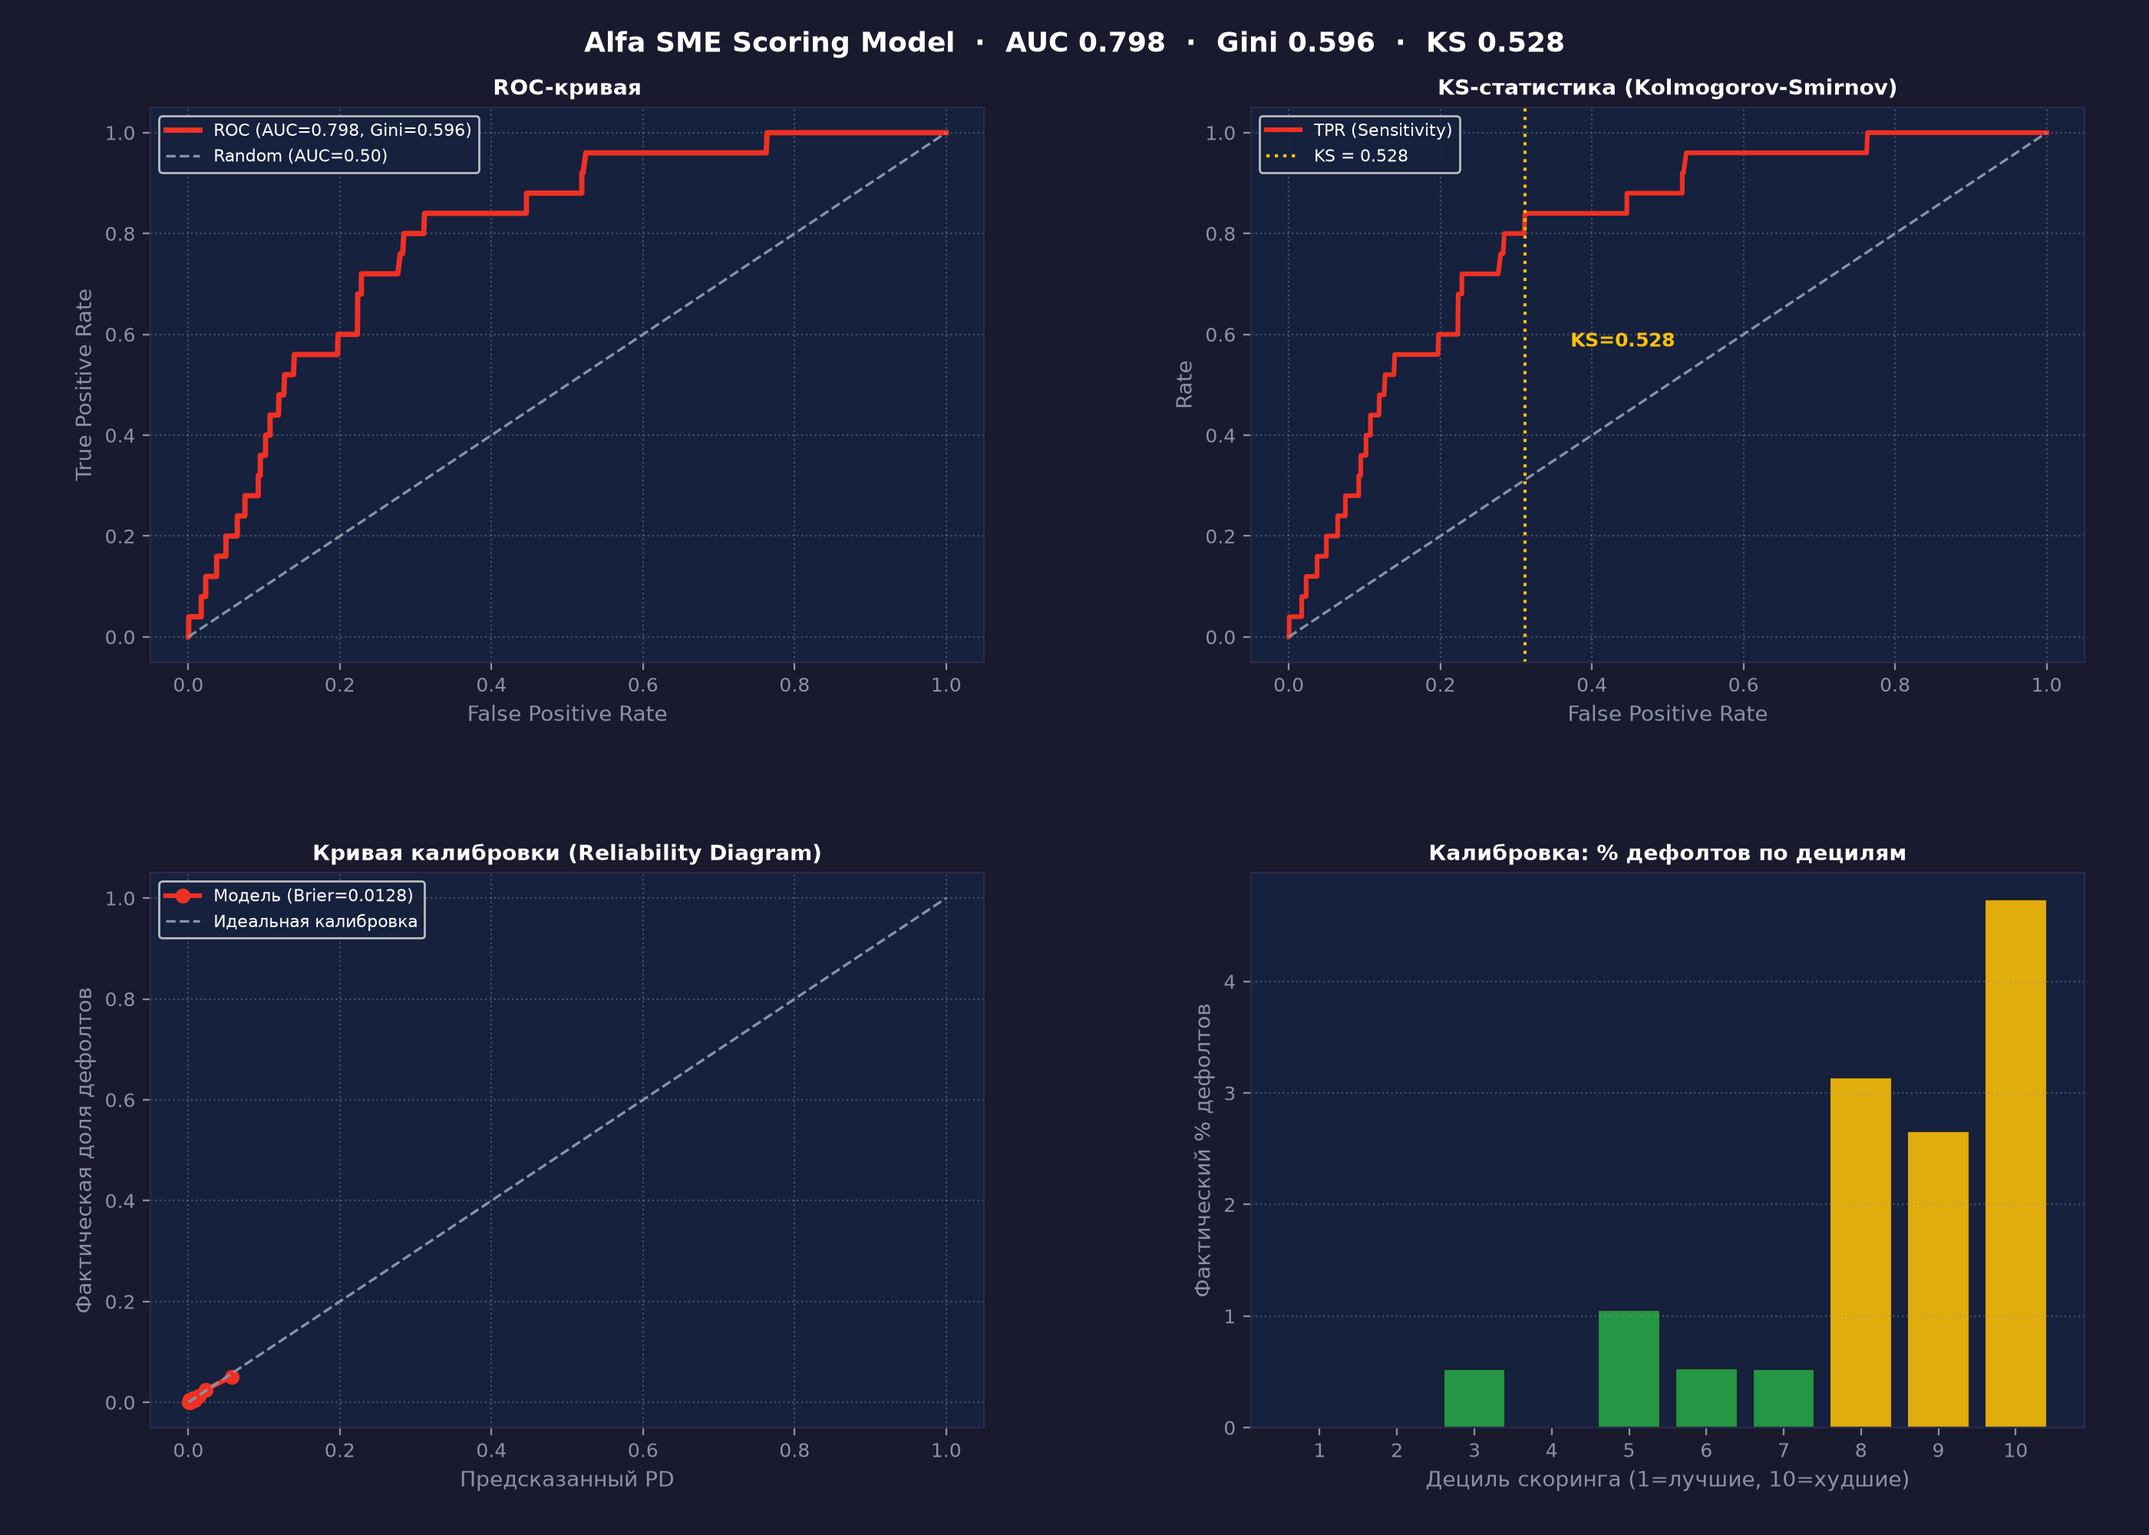
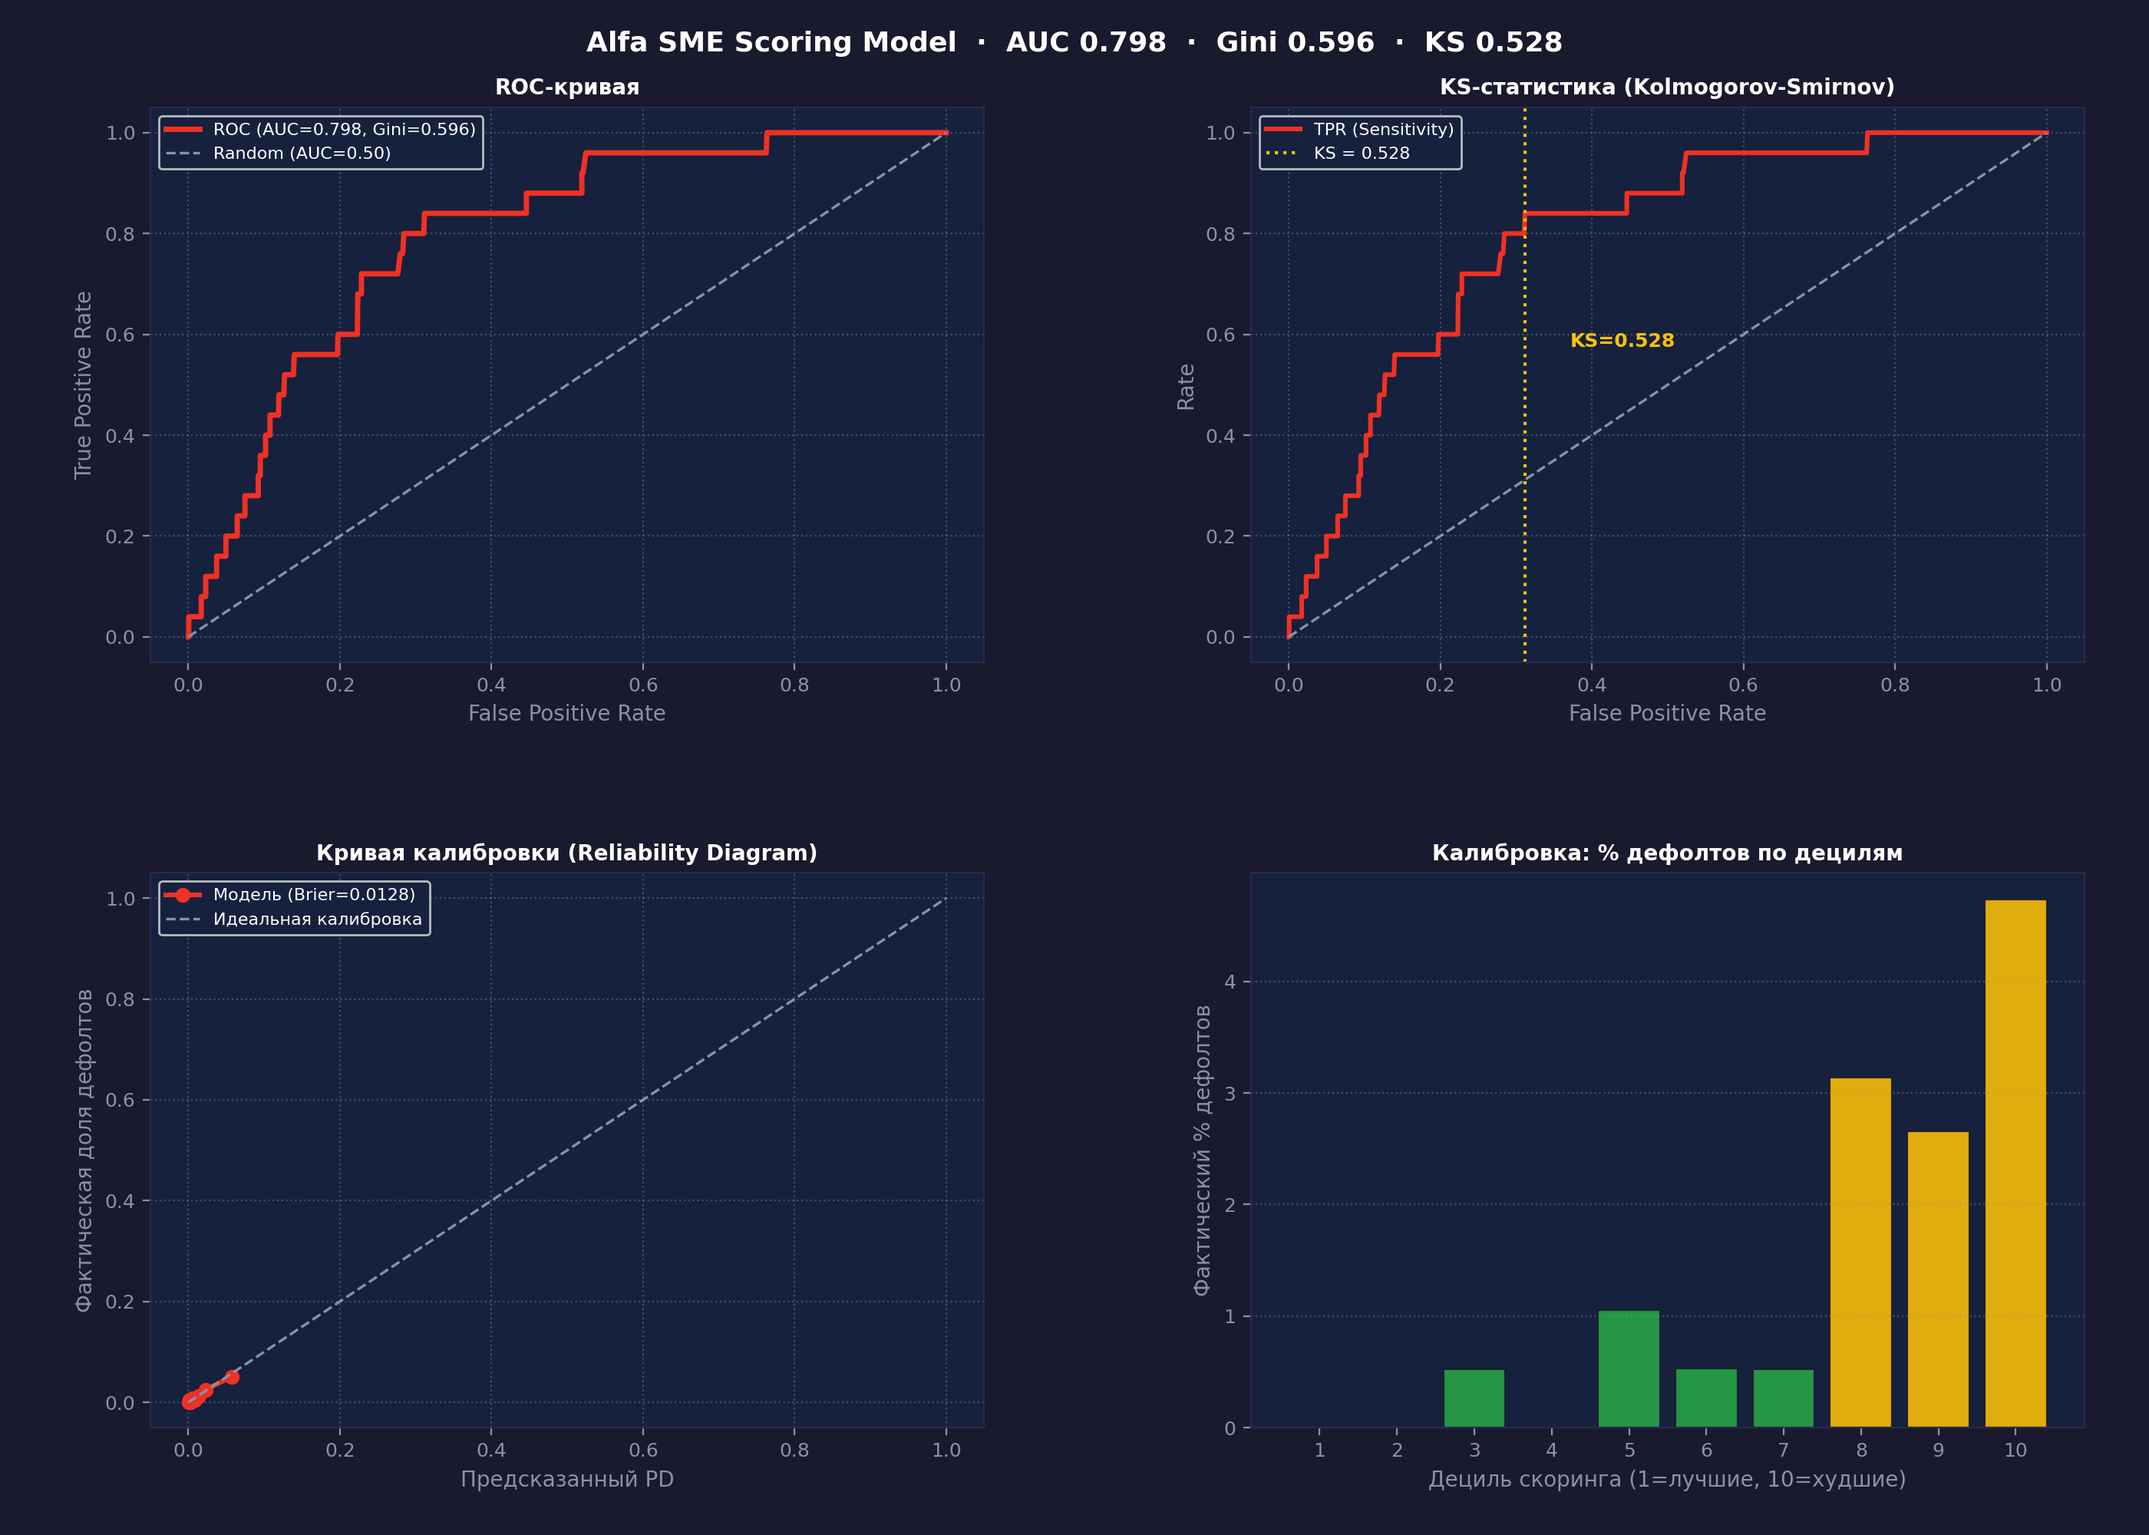
docs(scoring): update metrics plots and scorecard documentation

diff --git a/README.md b/README.md
@@ -1,0 +1,152 @@
+# Smart Credit Hub — Умный кредитный кабинет предпринимателя
+
+Проект разработан в рамках хакатона **«Альфа-Будущее 2026»** для трека кредитования малого и микробизнеса (МСП).
+
+Платформа решает ключевые проблемы кредитования малого бизнеса:
+- **Мгновенное принятие решений** за секунды на основе автообогащения по ИНН (модели данных ФНС и БКИ).
+- **Небинарные решения (Контр-оффер):** вместо сухого отказа банк предлагает сниженную посильную сумму и срок по нормативу долговой нагрузки ($PTI \le 35\%$).
+- **«Серая зона» и АРМ Андеррайтера:** гибкий переход на ручное рассмотрение с запросом документов и витриной решений для кредитного инспектора.
+- **Explainable AI (XAI) & Альфа-Ассистент:** расшифровка факторов риска на человеческом языке и интеллектуальный ИИ-консультант с открытыми LLM и автономным офлайн-фоллбэком.
+- **Подписание и выдача:** симуляция подписания договора простой ЭП (ПЭП) и автоматического зачисления средств (`DISBURSED`).
+
+---
+
+## 🏛 Архитектура и стек технологий
+
+```mermaid
+flowchart TD
+    Client["Клиент (Web-кабинет)"] -->|REST API / JWT| Router["Go Chi Router (:8080)"]
+    Underwriter["АРМ Андеррайтера"] -->|REST API / Role: UNDERWRITER| Router
+
+    subgraph Backend ["Go 1.22+ Backend Core"]
+        Router --> Auth["Модуль Auth (JWT, BCrypt)"]
+        Router --> Pipeline["Асинхронный конвейер заявки"]
+        Router --> Mocks["Мок-сервис ФНС / БКИ"]
+        Router --> StateMachine["State Machine (12 статусов)"]
+        
+        Pipeline --> Scoring["Scoring Engine (z-score, PD, PTI)"]
+        Scoring --> Model["scoring/model.json"]
+        
+        Pipeline --> Repo["PostgreSQL Repository (pgxpool)"]
+        Repo --> DB[(PostgreSQL 15.8)]
+    end
+
+    subgraph ScoringML ["Scoring & Data Science"]
+        DatasetGen["generate_dataset.py (8000 компаний МСП)"]
+        Trainer["train.py (Logistic Regression, ROC-AUC: 0.798, Gini: 0.596)"]
+        Assistant["assistant.py (Альфа-Ассистент: Llama 3.3 / Offline Rules)"]
+    end
+```
+
+### Основные компоненты:
+* **Backend:** Go 1.22+, `github.com/go-chi/chi/v5`, `github.com/golang-jwt/jwt/v5`, `github.com/jackc/pgx/v5` (pgxpool), structured `log/slog`.
+* **Database:** PostgreSQL 15.8 (автоматические миграции при старте через `embed.FS`).
+* **Scoring & ML:** Python 3.11+, `scikit-learn`, `pandas`, `numpy`, `matplotlib` (калиброванная скоркарта, ROC-AUC: 0.798, Gini: 0.596).
+* **Спецификация API:** OpenAPI 3.0.3 (`docs/openapi.yaml`).
+* **Жизненный цикл заявки:** 12 состояний со строгой валидацией переходов (`docs/state-machine.md`).
+
+---
+
+## 👥 Демо-пользователи для проверки конвейера
+
+В базу данных при старте автоматически зашиты 6 готовых профилей (`demo123` для всех):
+
+| Логин | Пароль | Роль | ИНН | Компания | Ожидаемый исход конвейера |
+| :--- | :---: | :---: | :---: | :--- | :--- |
+| `client_alfa` | `demo123` | `CLIENT` | `7701000001` | ООО «Альфа Логистика» | 🟢 **Зеленая зона:** моментальное автоодобрение 3.0 млн ₽ под 18.5%. |
+| `client_smirnov` | `demo123` | `CLIENT` | `7701000002` | ИП Смирнов Алексей Петрович | 🟡 **Желтая зона:** контр-оффер (3.25 млн ₽ по PTI $\le 35\%$). |
+| `client_technostart`| `demo123` | `CLIENT` | `7701000003` | ООО «ТехноСтарт» | ⚪ **Серая зона:** передача в АРМ андеррайтера, запрос баланса. |
+| `client_negativ` | `demo123` | `CLIENT` | `7701000004` | ООО «Негатив Трейд» | 🔴 **Красная зона:** отказ (стоп-фактор: просрочка в БКИ $\ge 90$ дней). |
+| `client_megastroy` | `demo123` | `CLIENT` | `7701000005` | ООО «Мегастрой» | 🟢 **Превышение лимита:** контр-оффер на максимальный лимит продукта (10 млн ₽). |
+| `underwriter` | `demo123` | `UNDERWRITER` | — | Главный Андеррайтер | Доступ к очереди `/api/v1/bank/applications` и принятию решений. |
+
+---
+
+## 🚀 Быстрый старт
+
+### Вариант 1: Запуск всего окружения через Docker Compose (Рекомендуемый)
+
+```bash
+# Клонирование и переход в каталог проекта
+git clone https://github.com/playblues/smart-credit-hub.git
+cd smart-credit-hub
+
+# Сборка и запуск контейнеров (PostgreSQL 15.8 + Go Backend)
+docker compose up --build -d
+```
+
+Сервер станет доступен по адресу: `http://localhost:8080`  
+Проверка состояния: `GET http://localhost:8080/healthz`
+
+### Вариант 2: Локальный запуск (Go + локальный/контейнерный Postgres)
+
+1. Запустите только базу данных:
+   ```bash
+   docker compose up -d postgres
+   ```
+2. Перейдите в каталог `backend` и запустите сервер:
+   ```bash
+   cd backend
+   go run ./cmd/server
+   ```
+   Миграции схемы БД и тестовые пользователи накатятся автоматически.
+
+---
+
+## 🧪 Запуск тестов и верификация математики
+
+### 1. Тестирование Go-бэкенда (100% покрытие ключевых модулей)
+```bash
+cd backend
+go test -v -count=1 ./...
+```
+*Включает проверку авторизации, моков ФНС/БКИ, State Machine, персистентности, конвейера, загрузки файлов до 10 МБ, решений андеррайтера и всех 5 золотых кейсов скоринга.*
+
+### 2. Тестирование эталонного скоринга на Python
+```bash
+python scoring/test_cases.py
+# Результат: OK: 5 кейсов сошлись
+```
+
+### 3. Обучение скоринговой модели и валидация банковских метрик
+```bash
+pip install -r scoring/requirements.txt
+python scoring/train.py
+```
+*Выводит матрицу ошибок, рассчитывает ROC-AUC и Gini, а также сохраняет визуализацию кривой в `docs/roc_auc_curve.png`.*
+
+### 4. Тестирование умного AI-ассистента
+```bash
+python scoring/assistant.py
+```
+
+---
+
+## 📡 Ключевые эндпоинты API (OpenAPI 3.0.3)
+
+| Метод | Путь | Описание | Доступ |
+| :---: | :--- | :--- | :---: |
+| `POST` | `/api/v1/auth/login` | Аутентификация клиента / андеррайтера, выдача JWT | Публичный |
+| `GET` | `/api/v1/mock/fns/{inn}` | Получение данных компании из симулятора ФНС | Публичный |
+| `GET` | `/api/v1/mock/bki/{inn}` | Получение кредитной истории из симулятора БКИ | Публичный |
+| `POST` | `/api/v1/applications` | Подача кредитной заявки и запуск конвейера | `CLIENT` |
+| `GET` | `/api/v1/applications` | Список заявок текущего авторизованного клиента | `CLIENT` |
+| `GET` | `/api/v1/applications/{id}` | Детали заявки со скорингом, аудит-логом и документами | `CLIENT` / `UNDERWRITER` |
+| `POST` | `/api/v1/applications/{id}/counter-offer/accept` | Принятие встречного предложения банка | `CLIENT` |
+| `POST` | `/api/v1/applications/{id}/counter-offer/reject` | Отклонение встречного предложения банка | `CLIENT` |
+| `POST` | `/api/v1/applications/{id}/documents` | Загрузка документов (PDF, PNG, JPG до 10 МБ) в серой зоне | `CLIENT` |
+| `POST` | `/api/v1/applications/{id}/sign` | Подписание кредитного договора кодом ПЭП и зачисление | `CLIENT` |
+| `GET` | `/api/v1/bank/applications` | Очередь заявок андеррайтера (фильтры: `status`, `risk_zone`) | `UNDERWRITER` |
+| `GET` | `/api/v1/bank/applications/{id}` | Детальная карточка заявки для кредитного инспектора | `UNDERWRITER` |
+| `POST` | `/api/v1/bank/applications/{id}/decision` | Вынесение решения (`APPROVE`, `REJECT`, `REQUEST_DOCUMENTS`, `COUNTER_OFFER`) | `UNDERWRITER` |
+| `GET` | `/healthz` | Проверка liveness сервиса и реального ping базы данных | Публичный |
+
+Полная спецификация со всеми схемами DTO находится в [`docs/openapi.yaml`](docs/openapi.yaml).
+
+---
+
+## 📄 Документация и регламент хакатона
+
+- [`docs/PRODUCT_RESEARCH.md`](docs/PRODUCT_RESEARCH.md) — Продуктовое исследование рынка МСП, User Personas, JTBD и MoSCoW-матрица (Слайды 4, 5, 8, 14, 15 ТЗ).
+- [`docs/state-machine.md`](docs/state-machine.md) — Диаграмма состояний и матрица разрешенных переходов заявки.
+- [`THIRD_PARTY_NOTICES.md`](THIRD_PARTY_NOTICES.md) — Перечень сторонних библиотек, описание синтетического датасета и смоделированных интеграций (Слайды 7, 10 ТЗ).
